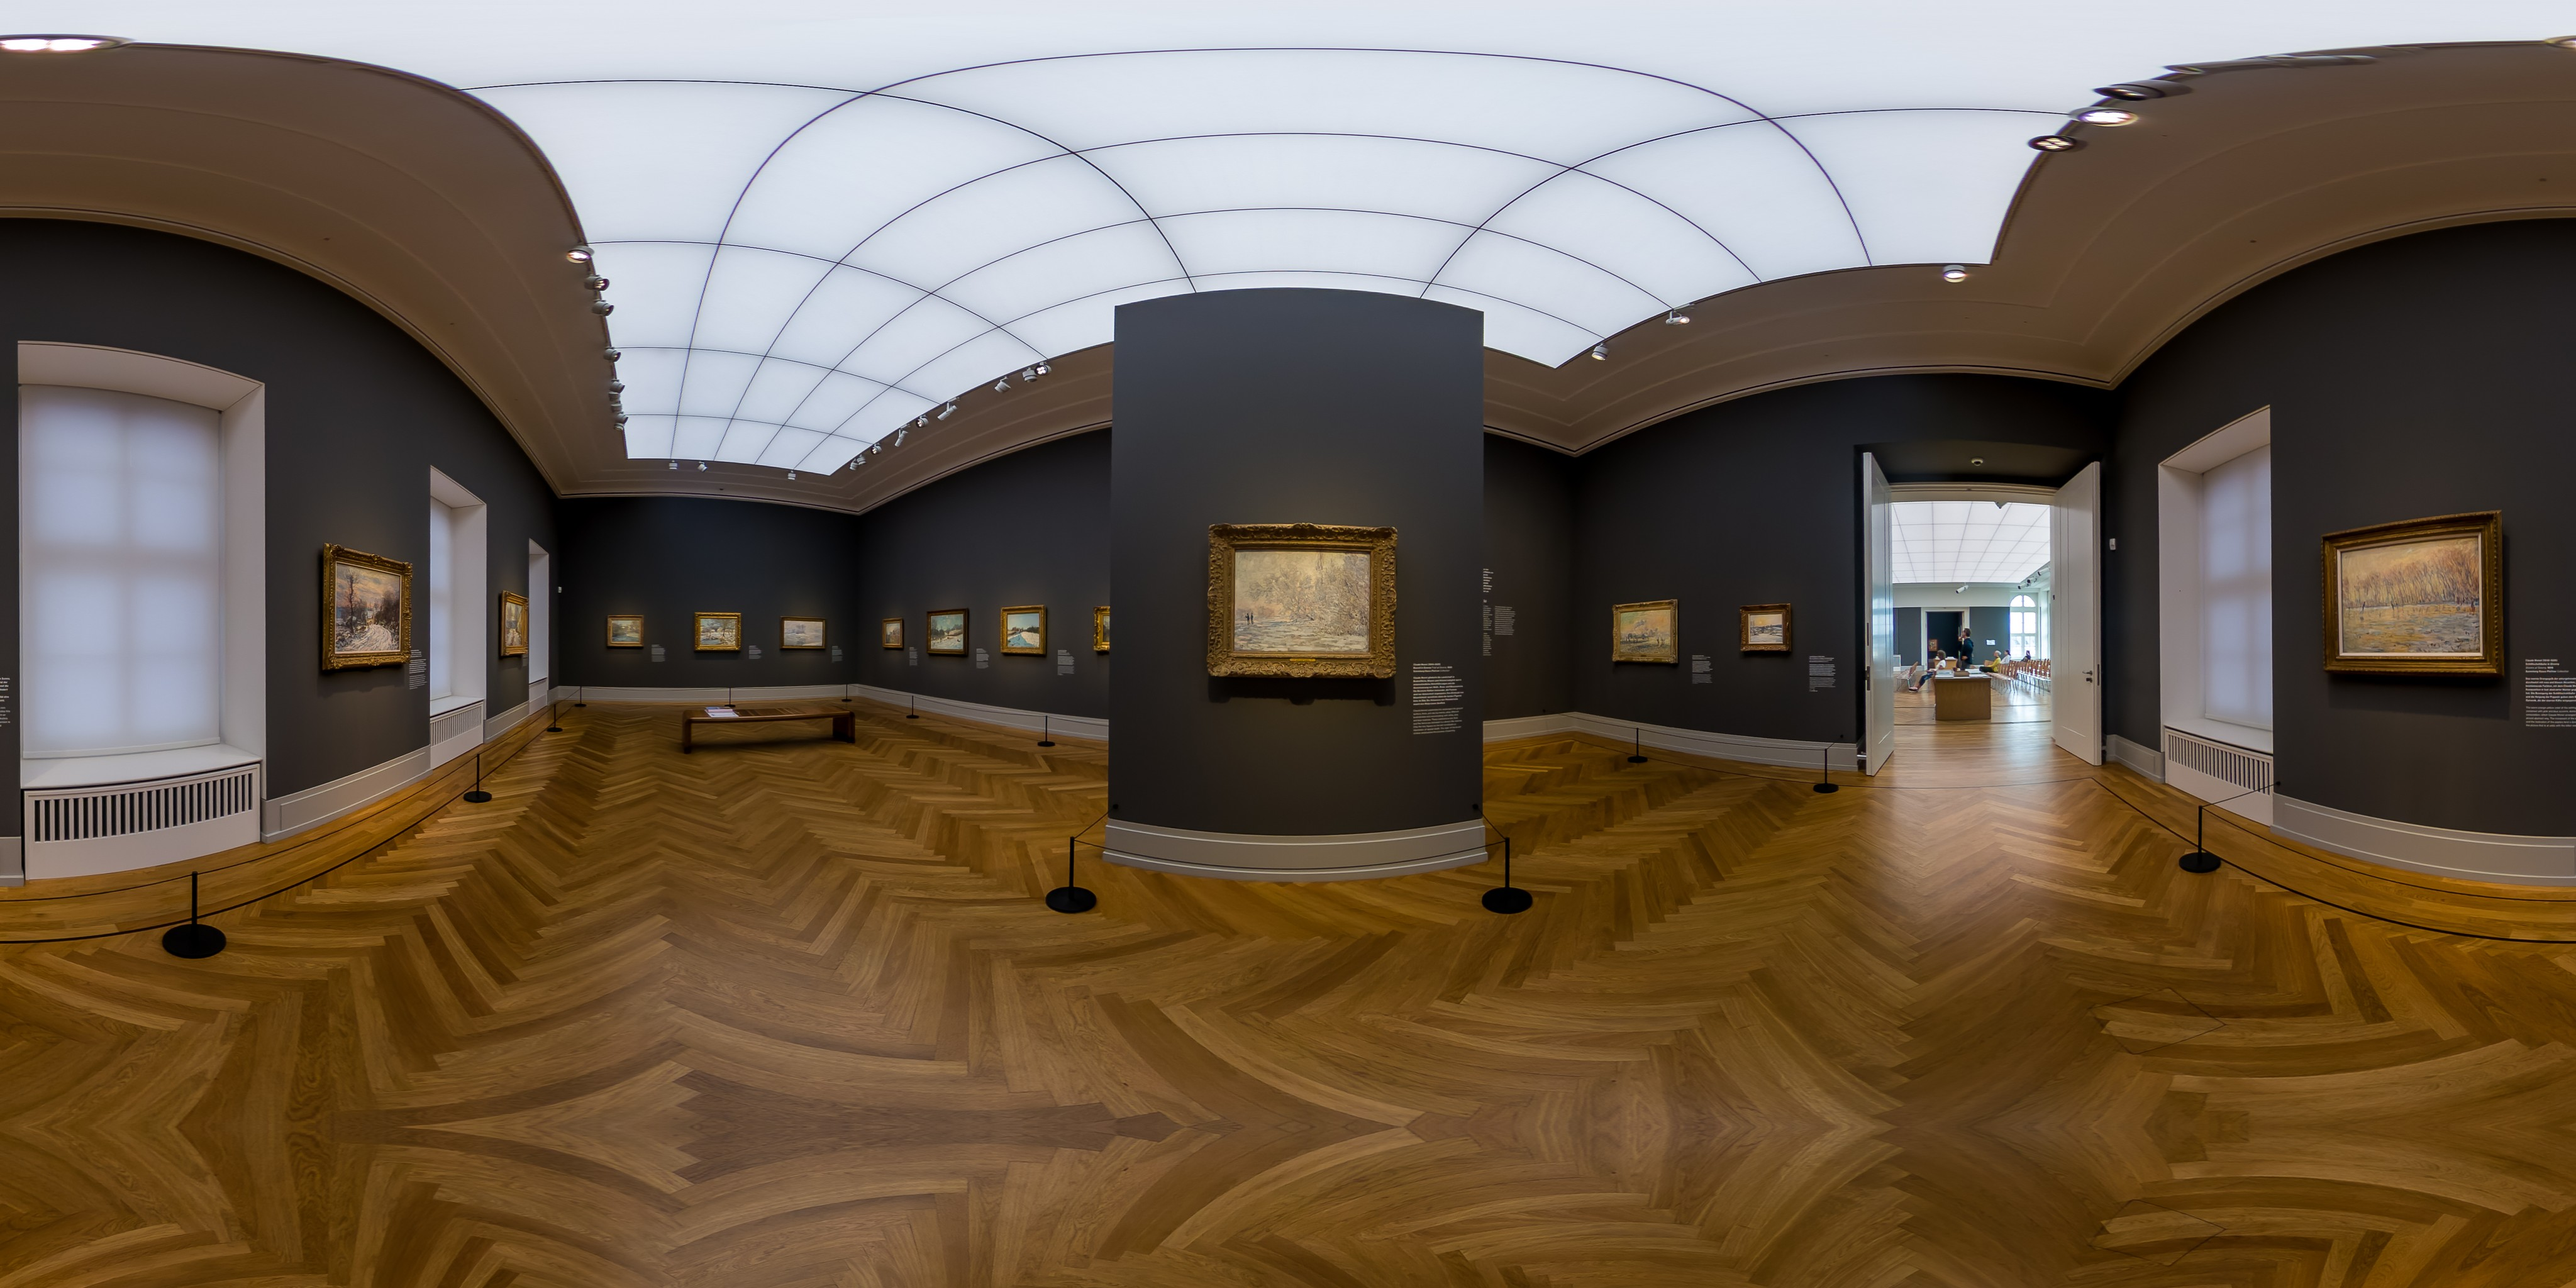
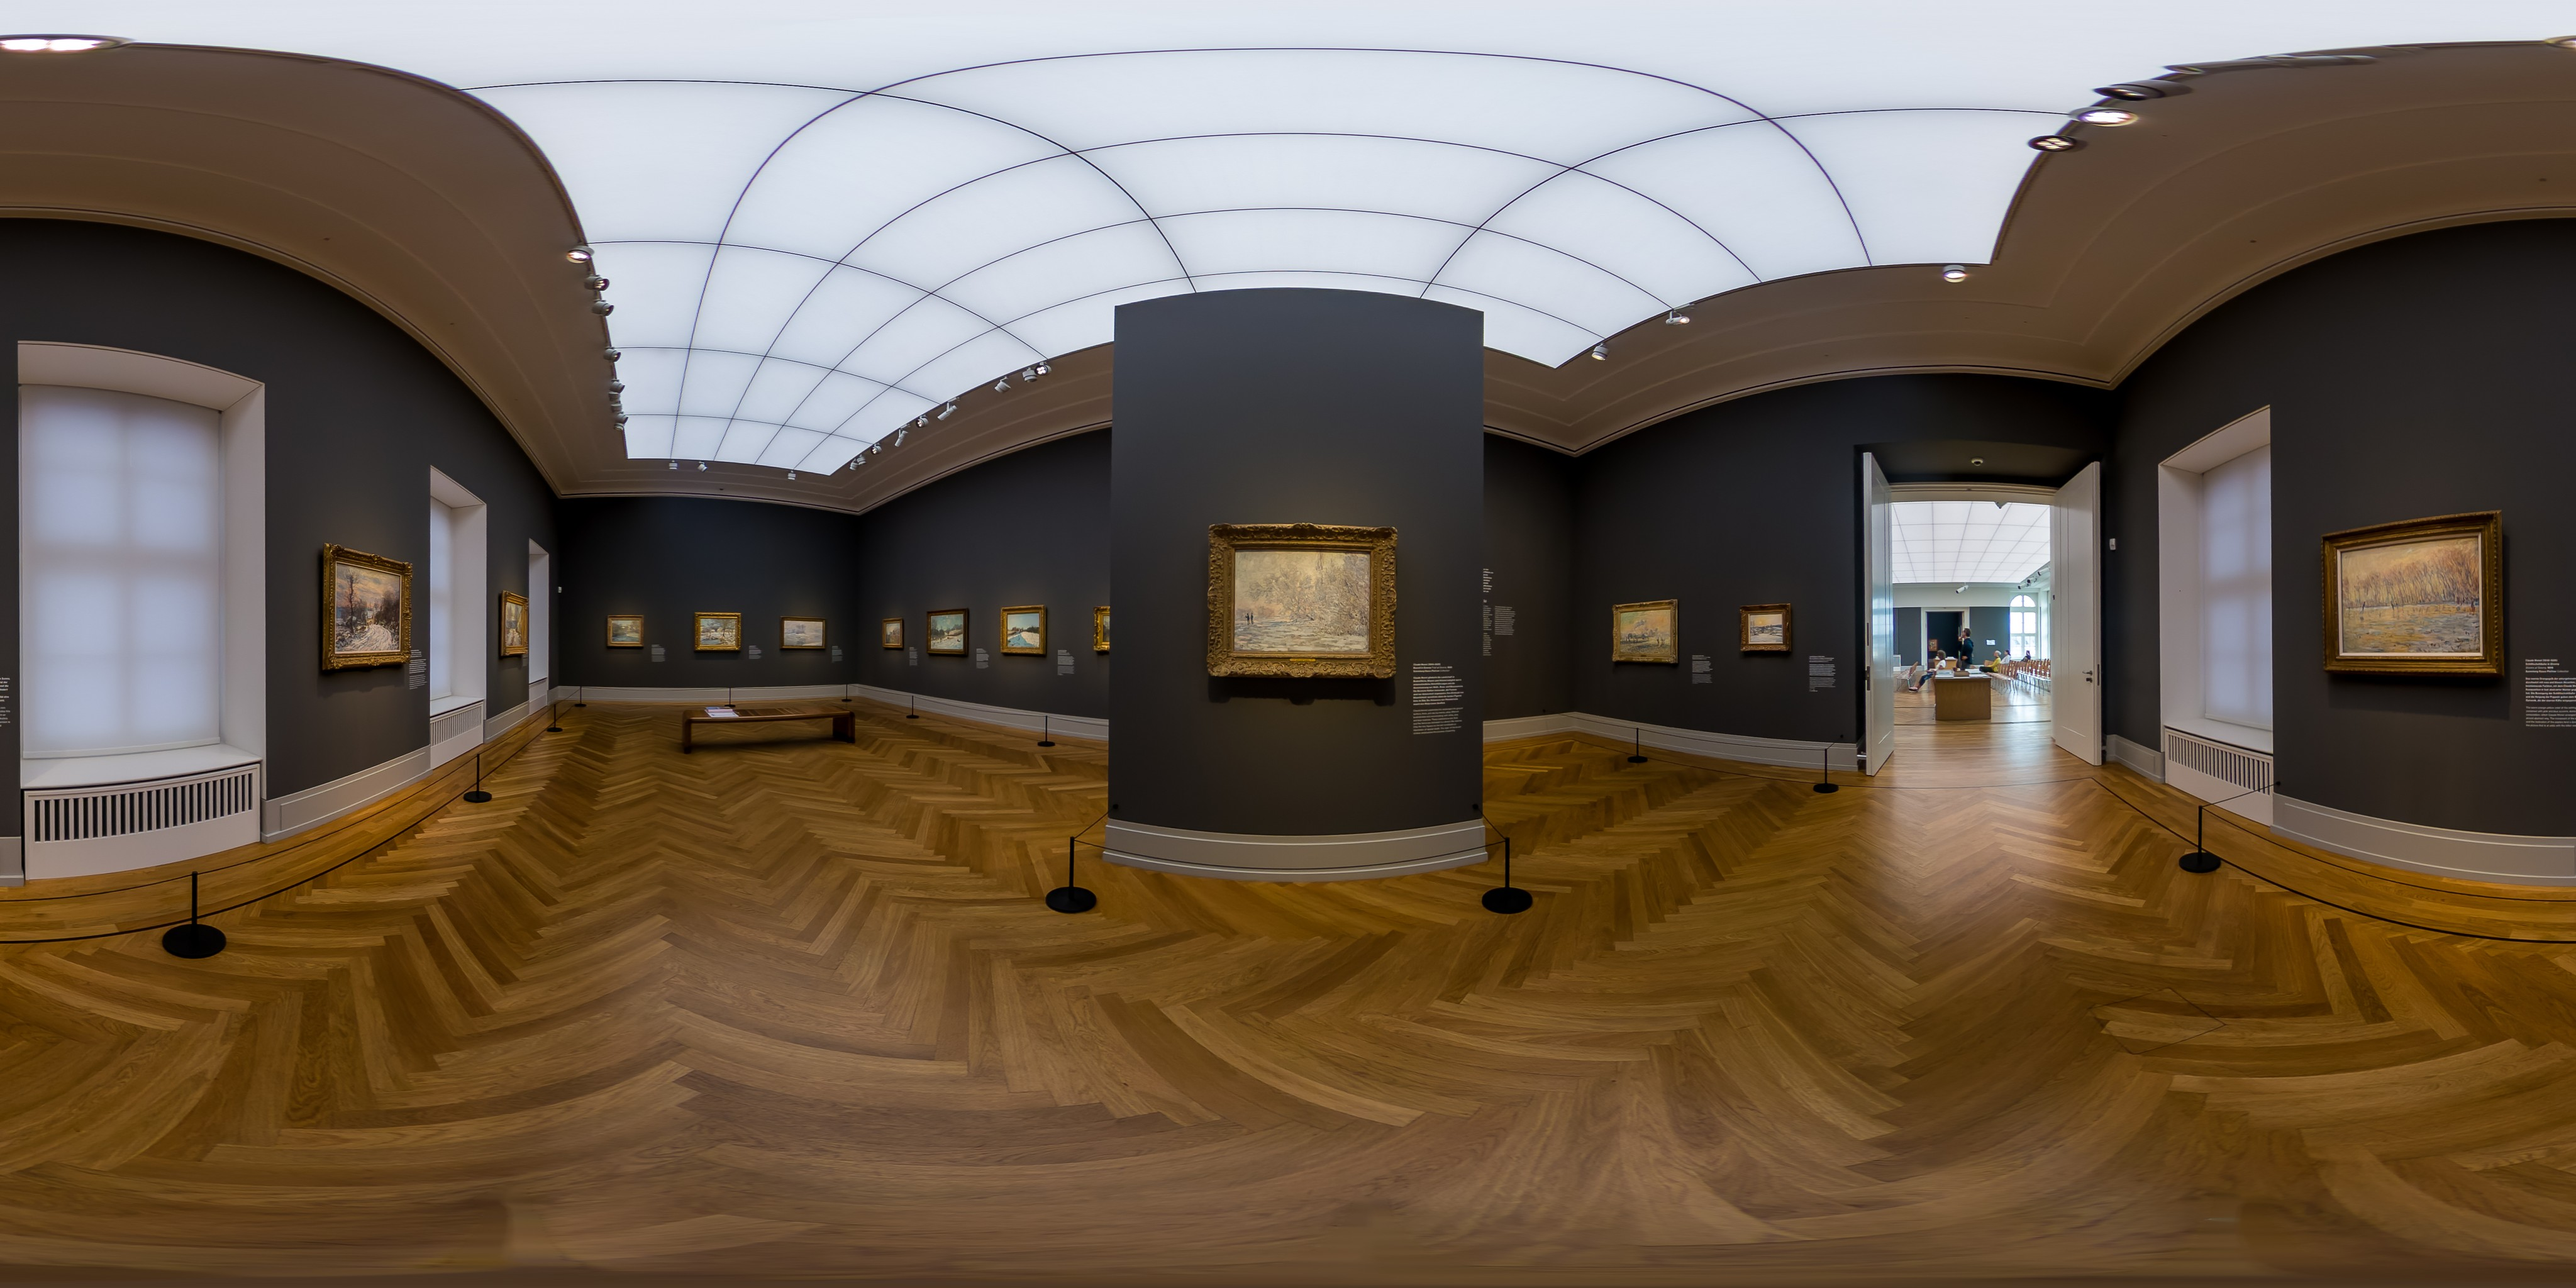
Barberini-Nadir richtig: Stativ per Inpainting (Heal-Selection-Aequivalent) in der Draufsicht entfernt, adaptive Maske je Saal

Changed region(s): [[0.0, 0.875, 1.0, 1.0], [0.375, 0.875, 0.4062, 0.9062], [0.2188, 0.875, 0.25, 0.9062]]

diff --git a/platform/dev/seed_barberini.py b/platform/dev/seed_barberini.py
@@ -23,6 +23,7 @@ from pathlib import Path
 import re
 
 import numpy as np
+import cv2
 from PIL import Image
 
 _SSL = ssl.create_default_context()
@@ -76,14 +77,46 @@ def sid_for(i):
     return f"barberini-{i+1:02d}"
 
 
-def fill_nadir(im, top_frac=0.875):
-    """Stativ/Fotograf am Nadir entfernen: das Boden-Band direkt oberhalb nach
-    unten SPIEGELN, sodass die Parkett-Textur weiterlaeuft (kein glatter Fleck)."""
-    a = np.asarray(im.convert("RGB")).astype(np.float32)
-    H, W, _ = a.shape
-    y0 = int(H * top_frac)
-    for k in range(H - y0):
-        a[y0 + k] = a[max(0, y0 - 1 - k)]
+def _sample(arr, sx, sy):
+    Hh, Ww = arr.shape[:2]
+    sx = np.clip(sx, 0, Ww - 1); sy = np.clip(sy, 0, Hh - 1)
+    x0 = np.floor(sx).astype(int); y0 = np.floor(sy).astype(int)
+    x1 = np.minimum(x0 + 1, Ww - 1); y1 = np.minimum(y0 + 1, Hh - 1)
+    wx = (sx - x0)[..., None]; wy = (sy - y0)[..., None]
+    return (arr[y0, x0] * (1 - wx) * (1 - wy) + arr[y0, x1] * wx * (1 - wy)
+            + arr[y1, x0] * (1 - wx) * wy + arr[y1, x1] * wx * wy)
+
+
+def fill_nadir(im, alpha_deg=42, R=1500):
+    """Stativ/Fotograf am Nadir wegretuschieren wie GIMP "Heal Selection":
+    in die Draufsicht (senkrecht nach unten) projizieren, das Stativ per
+    adaptivem Schwellwert (deutlich dunkler als der Boden) maskieren, mit
+    cv2.inpaint heilen und nur den Maskenbereich ins Equirect zurueckrechnen."""
+    a = np.asarray(im.convert("RGB")).astype(np.float32); H, W, _ = a.shape
+    alpha = np.radians(alpha_deg); c = (R - 1) / 2
+    ys, xs = np.mgrid[0:R, 0:R].astype(np.float32); dx = (xs - c) / c; dy = (ys - c) / c
+    rr = np.sqrt(dx * dx + dy * dy); lat = np.clip(rr, 0, 1) * alpha - np.pi / 2
+    phi = np.arctan2(dy, dx)
+    ex = ((phi / (2 * np.pi)) + 0.5) * (W - 1); ey = (0.5 - lat / np.pi) * (H - 1)
+    down = _sample(a, ex, ey); luma = down.mean(2)
+    floor_med = np.median(luma[(rr > 0.5) & (rr < 0.92)]); thr = floor_med * 0.60
+    mask = ((luma < thr) & (rr < 0.48)).astype(np.uint8)
+    mask = cv2.morphologyEx(mask, cv2.MORPH_CLOSE, np.ones((9, 9), np.uint8))
+    n, lab, stats, cent = cv2.connectedComponentsWithStats(mask, 8); keep = np.zeros_like(mask)
+    for k in range(1, n):
+        if stats[k, 4] >= 30 and ((cent[k][0] - c) ** 2 + (cent[k][1] - c) ** 2) ** 0.5 < 0.5 * c:
+            keep[lab == k] = 1
+    mask = cv2.dilate(keep * 255, np.ones((7, 7), np.uint8), 1)
+    healed = cv2.inpaint(np.clip(down, 0, 255).astype(np.uint8), mask, 4,
+                         cv2.INPAINT_TELEA).astype(np.float32)
+    yb = int((0.5 - (-np.pi / 2 + alpha) / np.pi) * (H - 1))
+    yy, xx = np.mgrid[yb:H, 0:W].astype(np.float32)
+    lat2 = (0.5 - yy / (H - 1)) * np.pi; lon2 = (xx / (W - 1) - 0.5) * 2 * np.pi
+    rr2 = np.clip((lat2 + np.pi / 2) / alpha, 0, 1)
+    u = c + rr2 * c * np.cos(lon2); v = c + rr2 * c * np.sin(lon2)
+    hv = _sample(healed, u, v)
+    mv = np.clip(_sample(mask[..., None].astype(np.float32), u, v)[..., 0] / 255.0, 0, 1)[..., None]
+    a[yb:H] = hv * mv + a[yb:H] * (1 - mv)
     return Image.fromarray(np.clip(a, 0, 255).astype(np.uint8))
 
 
